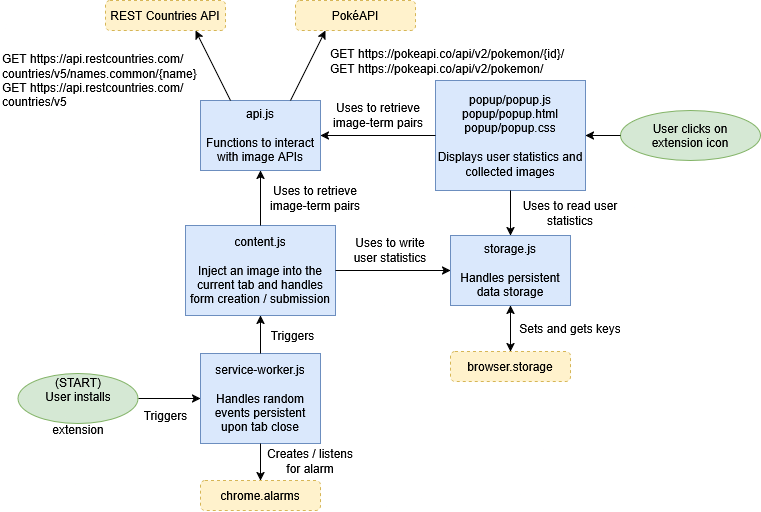
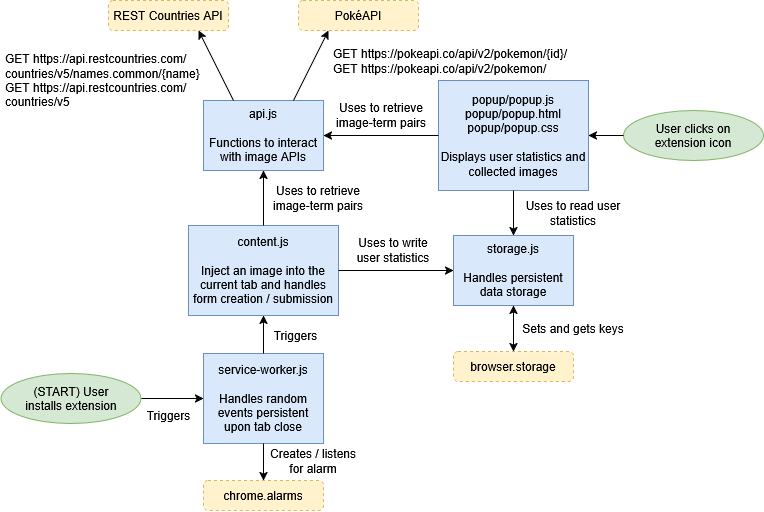
Initialized file structure; minor fixes to README and system diagram

diff --git a/README.md b/README.md
@@ -1,4 +1,4 @@
-# Project Name
+# Memorize 'Em All
 
 Chrome extension which helps you memorize image-term pairs!
 
